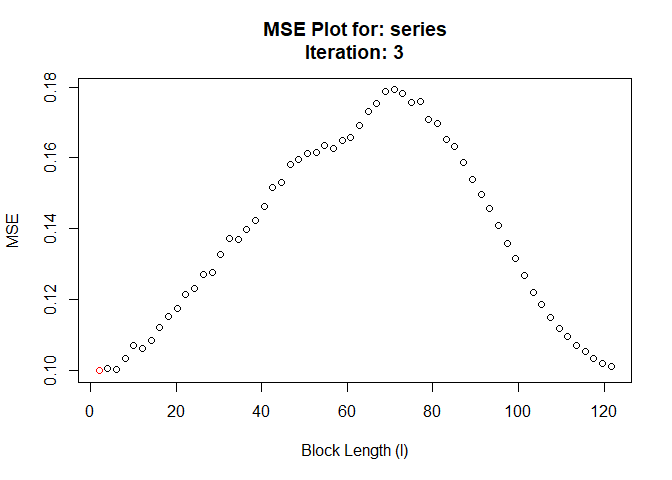
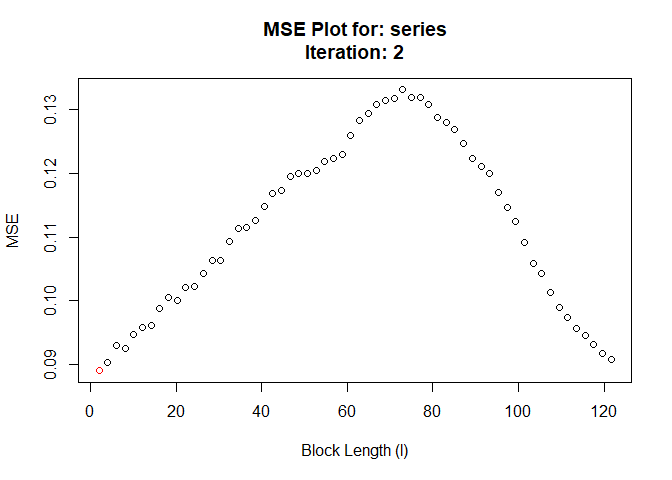
Update Examples

diff --git a/README.md b/README.md
@@ -37,9 +37,9 @@ This is a basic example which shows you how to solve a common problem:
 ``` r
 library(hhjboot)
 
-# Create AR(1) time series
-series <- as.vector(stats::arima.sim(model = list(order = c(1, 0, 0), ar = 0.5),
-                                     n = 500, innov = rnorm(500)))
+# Simulate AR(1) time series
+series <- stats::arima.sim(model = list(order = c(1, 0, 0), ar = 0.5),
+                                     n = 500, innov = rnorm(500))
 # Default
 HHJboot(series)
 #>  Pilot block length is: 3
@@ -48,17 +48,21 @@ HHJboot(series)
 #>   as.zoo.data.frame zoo
 #> Performing minimization may take some time
 #> Calculating MSE for each level in subsample: 28 function evaluations required.
-#>  Chosen block length: 10  After iteration: 1
+#>  Chosen block length: 16  After iteration: 1
 ```
 
 <img src="man/figures/README-example-1.png" width="100%" />
 
-    #>  Converged at block length (l): 10
+    #>  Chosen block length: 18  After iteration: 2
 
 <img src="man/figures/README-example-2.png" width="100%" />
 
+    #>  Converged at block length (l): 18
+
+<img src="man/figures/README-example-3.png" width="100%" />
+
     #> $`Optimal Block Length`
-    #> [1] 10
+    #> [1] 18
     #> 
     #> $`Pilot Number of Blocks (m)`
     #> [1] 28
@@ -72,16 +76,16 @@ HHJboot(series)
     #>  Pilot block length is: 3
     #> Performing minimization may take some time
     #> Calculating MSE for each level in subsample: 28 function evaluations required.
-    #>  Chosen block length: 8  After iteration: 1
-
-<img src="man/figures/README-example-3.png" width="100%" />
-
-    #>  Converged at block length (l): 8
+    #>  Chosen block length: 18  After iteration: 1
 
 <img src="man/figures/README-example-4.png" width="100%" />
 
+    #>  Converged at block length (l): 18
+
+<img src="man/figures/README-example-5.png" width="100%" />
+
     #> $`Optimal Block Length`
-    #> [1] 8
+    #> [1] 18
     #> 
     #> $`Pilot Number of Blocks (m)`
     #> [1] 28
@@ -96,19 +100,11 @@ HHJboot(series)
     #> Calculating MSE for each level in subsample: 60 function evaluations required.
     #>  Chosen block length: 2  After iteration: 1
 
-<img src="man/figures/README-example-5.png" width="100%" />
-
-    #>  Chosen block length: 6  After iteration: 2
-
 <img src="man/figures/README-example-6.png" width="100%" />
-
-    #>  Chosen block length: 2  After iteration: 3
-
-<img src="man/figures/README-example-7.png" width="100%" />
 
     #>  Converged at block length (l): 2
 
-<img src="man/figures/README-example-8.png" width="100%" />
+<img src="man/figures/README-example-7.png" width="100%" />
 
     #> $`Optimal Block Length`
     #> [1] 2
